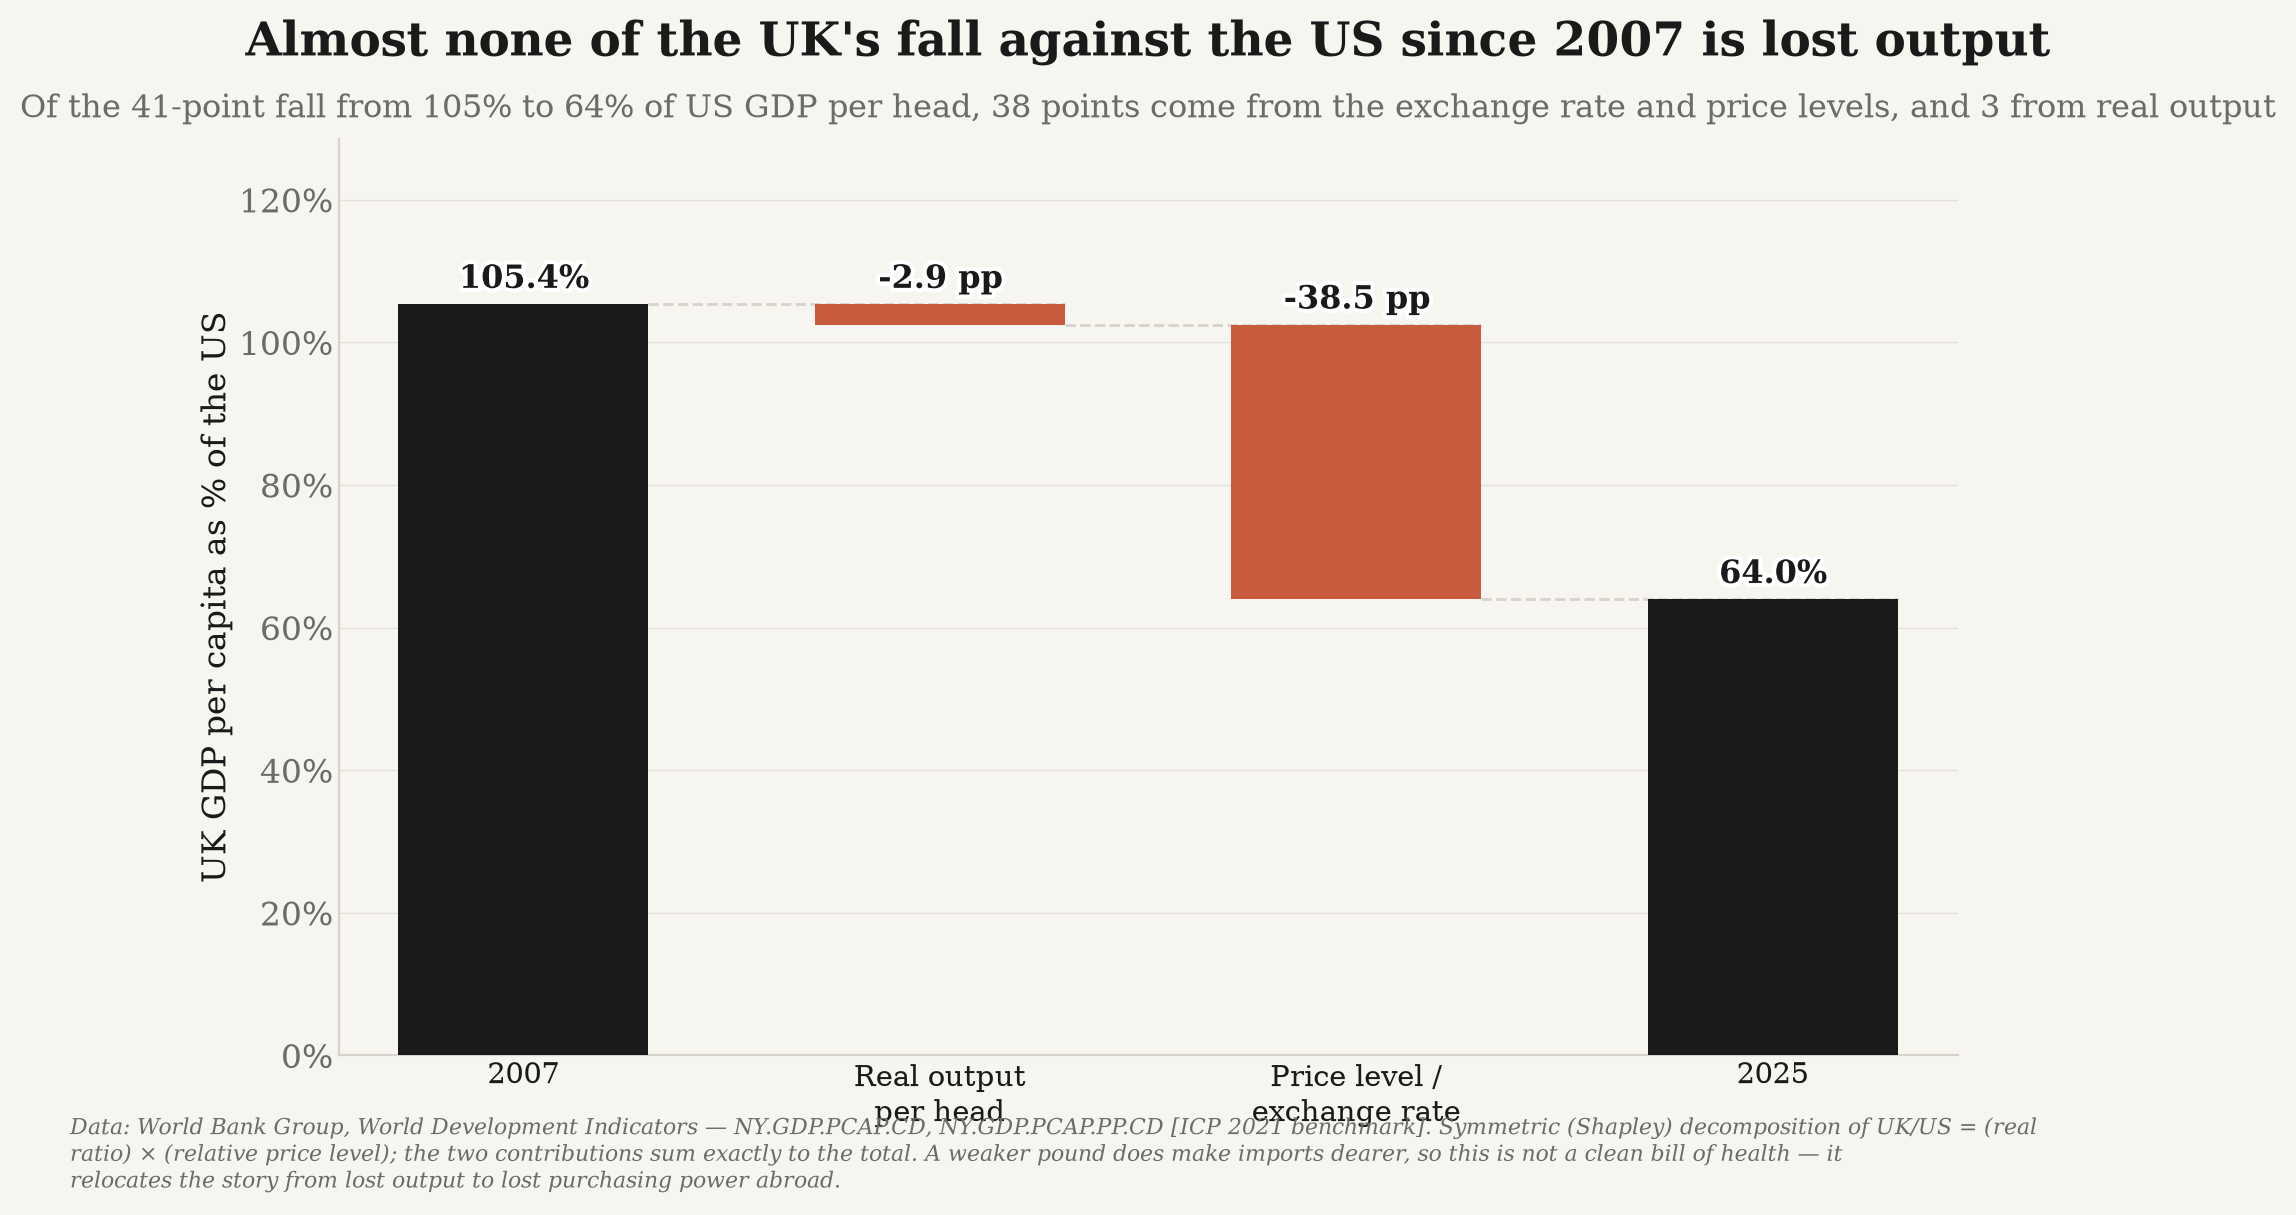
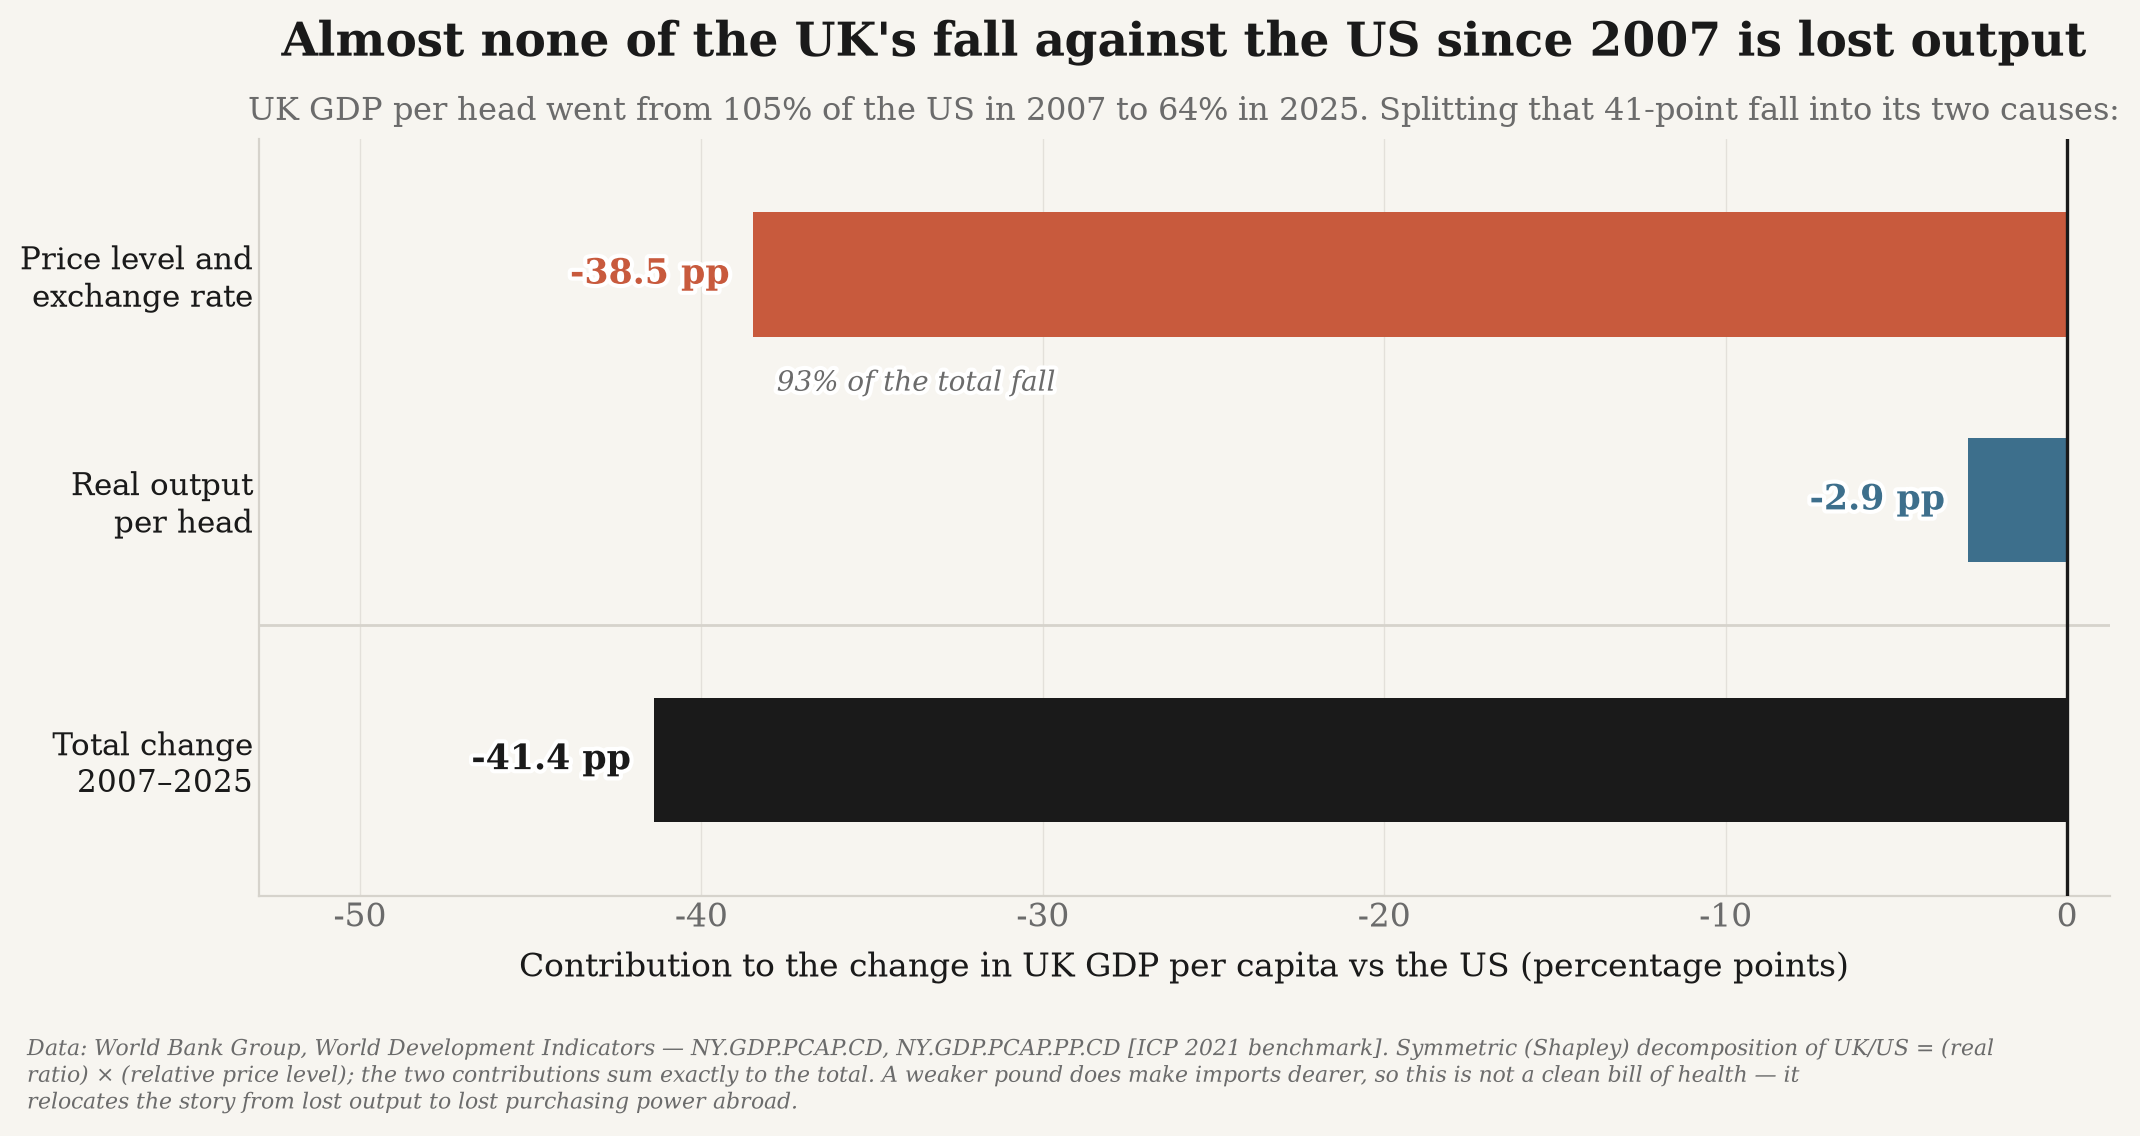
tuition ppp

diff --git a/ppp_data/charts.py b/ppp_data/charts.py
@@ -36,6 +36,10 @@ from .paths import CHART_DIR
 # the two bases are always compared over identical years.
 START_YEAR = 1990
 
+# The baseline year for the real-vs-currency decomposition: the UK's high-water mark against
+# the US, and the year the rest of the repository measures decline from.
+DECOMPOSITION_START_YEAR = 2007
+
 _WB = "Data: World Bank Group, World Development Indicators"
 _FRAMING = (
     "Market exchange rates measure what UK output buys on world markets; PPP measures what "
@@ -44,17 +48,21 @@ _FRAMING = (
 
 
 # ── 1. Levels at PPP ─────────────────────────────────────────────────────────
-def chart_gdp_per_capita(rows: list[dict], out_dir: Path) -> Path:
+def chart_gdp_per_capita(rows: list[dict], out_dir: Path) -> Path | None:
     """UK vs peers, real GDP per capita at PPP, constant 2021 international $."""
     metric = "gdp_per_capita_ppp_constant"
     meta = metrics.require_over_time(metric)
+    plotted = {p.iso3: series.xy(series.series(rows, metric, p.iso3), START_YEAR)
+               for p in peers.PEERS}
+    if not any(xs for xs, _ in plotted.values()):
+        return None  # a partial fetch: skip rather than publish an empty figure
     plt = _plt()
     fig, ax = plt.subplots(figsize=(11, 6))
 
     uk_latest = None
     spans: list[list[int]] = []
     for peer in peers.PEERS:
-        xs, ys = series.xy(series.series(rows, metric, peer.iso3), START_YEAR)
+        xs, ys = plotted[peer.iso3]
         if not xs:
             continue
         spans.append(xs)
@@ -83,10 +91,14 @@ def chart_gdp_per_capita(rows: list[dict], out_dir: Path) -> Path:
 
 
 # ── 2. Peers relative to the UK, at PPP ──────────────────────────────────────
-def chart_relative_to_peers(rows: list[dict], out_dir: Path) -> Path:
+def chart_relative_to_peers(rows: list[dict], out_dir: Path) -> Path | None:
     """Each peer's GDP per capita as a percentage of the UK's, at PPP (UK = 100)."""
     metric = "gdp_per_capita_ppp_current"
     meta = metrics.require_cross_section(metric)
+    plotted = {p.iso3: series.xy(series.ratio(rows, metric, p.iso3, peers.UK), START_YEAR)
+               for p in peers.RELATIVE_PEERS}
+    if not any(xs for xs, _ in plotted.values()):
+        return None  # no peer has a UK ratio: skip rather than publish an empty figure
     plt = _plt()
     fig, ax = plt.subplots(figsize=(11.5, 6.5))
 
@@ -95,8 +107,7 @@ def chart_relative_to_peers(rows: list[dict], out_dir: Path) -> Path:
     labels: list[tuple[float, str, str]] = []
     last_x = None
     for peer in peers.RELATIVE_PEERS:
-        ratios = series.ratio(rows, metric, peer.iso3, peers.UK)
-        xs, ys = series.xy(ratios, START_YEAR)
+        xs, ys = plotted[peer.iso3]
         if not xs:
             continue
         spans.append(xs)
@@ -134,19 +145,21 @@ def chart_relative_to_peers(rows: list[dict], out_dir: Path) -> Path:
 
 
 # ── 3. The two bases side by side ────────────────────────────────────────────
-def chart_ppp_vs_market_fx(rows: list[dict], out_dir: Path) -> Path:
+def chart_ppp_vs_market_fx(rows: list[dict], out_dir: Path) -> Path | None:
     """The UK as a share of the US, at market exchange rates and at PPP."""
     fx_metric, ppp_metric = "gdp_per_capita_nominal_usd", "gdp_per_capita_ppp_current"
     metrics.require_cross_section(fx_metric)
     metrics.require_cross_section(ppp_metric)
-    plt = _plt()
 
     fx = series.ratio(rows, fx_metric, peers.UK, peers.US)
     ppp = series.ratio(rows, ppp_metric, peers.UK, peers.US)
     years = [y for y in sorted(fx.keys() & ppp.keys()) if y >= START_YEAR]
+    if not years:
+        return None  # both bases are needed to draw the comparison at all
     fx_pct = [fx[y] * 100 for y in years]
     ppp_pct = [ppp[y] * 100 for y in years]
 
+    plt = _plt()
     fig, ax = plt.subplots(figsize=(11.5, 6.5))
     ax.fill_between(years, fx_pct, ppp_pct, color=MUTED, alpha=0.14, zorder=1)
     ax.plot(years, fx_pct, color=ACCENT, linewidth=2.8, zorder=4)
@@ -189,14 +202,17 @@ def chart_ppp_vs_market_fx(rows: list[dict], out_dir: Path) -> Path:
 
 
 # ── 4. The price level index ─────────────────────────────────────────────────
-def chart_price_level_index(rows: list[dict], out_dir: Path) -> Path:
+def chart_price_level_index(rows: list[dict], out_dir: Path) -> Path | None:
     """Each country's price level relative to the United States (US = 1.00)."""
     metric = "price_level_index"
     meta = metrics.require_over_time(metric)
+    uk = series.series(rows, metric, peers.UK)
+    uk_years = series.years_between(uk, START_YEAR)
+    if not uk_years:
+        return None  # the UK is the subject of this figure; without it there is nothing to say
     plt = _plt()
     fig, ax = plt.subplots(figsize=(11.5, 6.5))
 
-    uk = series.series(rows, metric, peers.UK)
     labels: list[tuple[float, str, str]] = []
     last_x = None
     for peer in peers.PRICE_LEVEL_PEERS:
@@ -215,7 +231,6 @@ def chart_price_level_index(rows: list[dict], out_dir: Path) -> Path:
     ax.text(ax.get_xlim()[0], 1.012, "United States = 1.00", fontsize=9.5, color=TEXT,
             style="italic", va="bottom", path_effects=white_stroke())
 
-    uk_years = series.years_between(uk, START_YEAR)
     peak_year = max(uk_years, key=lambda y: uk[y])
     ax.plot([peak_year], [uk[peak_year]], "o", color=ACCENT, markersize=7,
             markeredgecolor="white", markeredgewidth=1.4, zorder=6)
@@ -261,50 +276,69 @@ def uk_us_decomposition(rows: list[dict], start_year: int,
 
 
 def chart_decomposition(rows: list[dict], out_dir: Path,
-                        start_year: int = 2007) -> Path:
-    """A waterfall splitting the UK's fall against the US into real and currency parts."""
-    d = uk_us_decomposition(rows, start_year)
+                        start_year: int = DECOMPOSITION_START_YEAR) -> Path | None:
+    """Why the UK fell against the US: the two contributions, in percentage points.
+
+    Deliberately **not** a waterfall. A waterfall would put the endpoint levels (105% and
+    64% of the US) and the two changes (-2.9 and -38.5 points) on one axis, so bars drawn
+    from zero and bars floating in mid-air would look like the same kind of quantity when
+    they are not. This chart plots one quantity only — the contribution to the change, in
+    percentage points — and leaves the levels to the subtitle and the endpoint annotation.
+
+    ``start_year`` defaults to 2007, the UK's high-water mark and the baseline the rest of
+    the repository measures from. If the fetched range does not reach that far back — the
+    ``--start`` flag can move it — the figure is skipped rather than aborting a run whose
+    CSVs and manifest have already been written.
+    """
+    try:
+        d = uk_us_decomposition(rows, start_year)
+    except ValueError:
+        return None
     plt = _plt()
-    fig, ax = plt.subplots(figsize=(11, 6))
+    fig, ax = plt.subplots(figsize=(11, 5.6))
 
-    def colour(value: float) -> str:
-        return ACCENT if value < 0 else BLUE
+    # Top to bottom: the big driver, the small one, then the total they sum to.
+    bars = [
+        ("Price level and\nexchange rate", d.price_effect, ACCENT),
+        ("Real output\nper head", d.real_effect, BLUE),
+        (f"Total change\n{d.start_year}\u2013{d.end_year}", d.total_change, TEXT),
+    ]
+    ys = [2.0, 1.0, -0.15]  # the total is set slightly apart, below a divider
 
-    labels = [f"{d.start_year}", "Real output\nper head", "Price level /\nexchange rate",
-              f"{d.end_year}"]
-    # Endpoint bars sit on the axis; the two effect bars float between them, each starting
-    # where the previous step left off.
-    steps = [d.start_ratio, d.start_ratio + d.real_effect, d.end_ratio]
-    bars = [(0.0, d.start_ratio, TEXT)]
-    for effect, level in zip((d.real_effect, d.price_effect), steps):
-        bars.append((level + min(effect, 0.0), abs(effect), colour(effect)))
-    bars.append((0.0, d.end_ratio, TEXT))
+    for y, (_, value, colour) in zip(ys, bars):
+        ax.barh(y, value, height=0.55, color=colour, zorder=3)
+        ax.text(value - 0.7, y, f"{value:+.1f} pp", va="center", ha="right",
+                fontsize=12.5, fontweight="bold", color=colour,
+                path_effects=white_stroke())
 
-    for i, (bottom, height, col) in enumerate(bars):
-        ax.bar(i, height, bottom=bottom, color=col, width=0.6, zorder=3)
+    ax.axhline(0.45, color=GRID, linewidth=1.0, zorder=2)
+    ax.axvline(0, color=TEXT, linewidth=1.2, zorder=4)
 
-    for i, value in enumerate((d.start_ratio, d.real_effect, d.price_effect, d.end_ratio)):
-        bottom, height, _ = bars[i]
-        text = f"{value:+.1f} pp" if i in (1, 2) else f"{value:.1f}%"
-        ax.text(i, bottom + height + 1.2, text, ha="center", va="bottom",
-                fontsize=11.5, fontweight="bold", color=TEXT, path_effects=white_stroke())
+    share = abs(d.price_effect) / abs(d.total_change) * 100 if d.total_change else 0.0
+    ax.text(d.price_effect + 0.7, ys[0] - 0.42,
+            f"{share:.0f}% of the total fall", fontsize=10, color=MUTED, style="italic",
+            va="top", ha="left", path_effects=white_stroke())
 
-    # Dashed connectors carrying each step's closing level across to the next bar.
-    for i, level in enumerate(steps):
-        ax.plot([i + 0.3, i + 1.3], [level, level], color=GRID, linewidth=1.0,
-                linestyle="--", zorder=2)
+    ax.set_yticks(ys)
+    ax.set_yticklabels([label for label, _, _ in bars], fontsize=11, color=TEXT)
+    ax.set_ylim(-0.75, 2.6)
+    # Leave room to the left of the longest bar for its outside value label, which would
+    # otherwise run into the y tick labels.
+    widest = min(value for _, value, _ in bars)
+    ax.set_xlim(widest * 1.28, abs(widest) * 0.03)
 
-    ax.set_xticks(range(4))
-    ax.set_xticklabels(labels, fontsize=10.5, color=TEXT)
     ax.set_title(f"Almost none of the UK's fall against the US since {d.start_year} "
                  "is lost output", fontweight="bold", pad=30)
-    _subtitle(ax, f"Of the {abs(d.total_change):.0f}-point fall from {d.start_ratio:.0f}% to "
-                  f"{d.end_ratio:.0f}% of US GDP per head, {abs(d.price_effect):.0f} points "
-                  f"come from the exchange rate and price levels, and {abs(d.real_effect):.0f} "
-                  "from real output")
-    ax.yaxis.set_major_formatter(mtick.FuncFormatter(lambda v, _: f"{v:.0f}%"))
-    _tidy(ax, xlabel="", ylabel="UK GDP per capita as % of the US")
-    ax.set_ylim(0, max(d.start_ratio, d.end_ratio) * 1.22)
+    _subtitle(ax, f"UK GDP per head went from {d.start_ratio:.0f}% of the US in "
+                  f"{d.start_year} to {d.end_ratio:.0f}% in {d.end_year}. Splitting that "
+                  f"{abs(d.total_change):.0f}-point fall into its two causes:")
+    ax.xaxis.set_major_formatter(mtick.FuncFormatter(lambda v, _: f"{v:.0f}"))
+    ax.set_xlabel("Contribution to the change in UK GDP per capita vs the US "
+                  "(percentage points)", labelpad=6)
+    ax.grid(axis="x", linestyle="-", linewidth=0.5)
+    ax.set_axisbelow(True)
+    ax.tick_params(axis="both", pad=2)
+    ax.margins(y=0)
 
     source_note(fig, _note(
         f"{_WB} \u2014 NY.GDP.PCAP.CD, NY.GDP.PCAP.PP.CD [{metrics.ICP_VINTAGE} benchmark]. "
@@ -312,7 +346,7 @@ def chart_decomposition(rows: list[dict], out_dir: Path,
         "level); the two contributions sum exactly to the total.",
         "A weaker pound does make imports dearer, so this is not a clean bill of health "
         "\u2014 it relocates the story from lost output to lost purchasing power abroad."))
-    return save_fig(fig, out_dir / "ppp_gap_decomposition_uk_us.png")
+    return save_fig(fig, out_dir / "ppp_gap_decomposition_uk_us.png", bottom=0.20)
 
 
 # ── 6. The long run, on the Maddison benchmark ───────────────────────────────

diff --git a/ppp_data/worldbank.py b/ppp_data/worldbank.py
@@ -2,10 +2,16 @@
 
 Pulls the five World Bank series the PPP view needs — GDP per capita at PPP (constant and
 current international $), GDP per capita at market exchange rates (current US$), the PPP
-conversion factor, and the market exchange rate — and derives two more locally:
+conversion factor, and the market exchange rate — and derives three more locally:
 
-* ``price_level_index``    = PPP conversion factor / market exchange rate
-* ``gdp_per_capita_real_usd`` = current US$ GDP per capita deflated by US CPI
+* ``price_level_index``        = ``NY.GDP.PCAP.CD / NY.GDP.PCAP.PP.CD``. Algebraically this
+  is the PPP conversion factor over the market exchange rate, but computed this way the
+  country's local-currency GDP cancels, so it survives redenominations. See
+  :func:`derive_price_level_index`.
+* ``price_level_index_direct`` = ``PA.NUS.PPP / PA.NUS.FCRF``, the textbook formula, kept
+  **only** as a cross-check and never plotted — the two indicators do not share a currency
+  basis for euro-area countries before 1999.
+* ``gdp_per_capita_real_usd``  = current US$ GDP per capita deflated by US CPI.
 
 The deflation is delegated to :func:`europe_data.worldbank.deflate_to_real_usd`, the exact
 function behind the repository's headline chart, so the market-FX comparator plotted here
@@ -44,6 +50,10 @@ CONVERSION_INDICATORS: tuple[str, ...] = (
 # the Maddison Project Database, which sits on a different benchmark and gets its own chart.
 PPP_FIRST_YEAR = 1990
 
+# A hard ceiling on the paging loop. At 1,000 rows a page the real requests need one or two
+# pages; this only bounds a degenerate response that keeps advertising more.
+MAX_PAGES = 50
+
 SOURCE = "World Bank WDI"
 REAL_USD_SOURCE = "World Bank WDI (NY.GDP.PCAP.CD deflated by US CPI, FP.CPI.TOTL)"
 DERIVED_PLI_SOURCE = "Derived: World Bank WDI NY.GDP.PCAP.CD / NY.GDP.PCAP.PP.CD"
@@ -51,11 +61,16 @@ DERIVED_PLI_DIRECT_SOURCE = "Derived: World Bank WDI PA.NUS.PPP / PA.NUS.FCRF"
 
 
 def _fetch_indicator(indicator: str, iso3s: list[str], start: int, end: int) -> Iterator[dict]:
-    """Yield tidy rows for one indicator, following the API's paging."""
+    """Yield tidy rows for one indicator, following the API's paging.
+
+    The page count comes from the remote payload, so it is treated as untrusted: the loop
+    stops on a malformed header, on a page that yields no rows, and at a hard ceiling, so a
+    degenerate upstream response cannot drive unbounded requests.
+    """
     metric_id = metrics.BY_INDICATOR[indicator]
     codes = ";".join(iso3s)
     page = 1
-    while True:
+    while page <= MAX_PAGES:
         payload = get_json(
             f"{BASE}/country/{codes}/indicator/{indicator}",
             params={"format": "json", "per_page": 1000,
@@ -64,6 +79,8 @@ def _fetch_indicator(indicator: str, iso3s: list[str], start: int, end: int) -> 
         if not isinstance(payload, list) or len(payload) < 2 or payload[1] is None:
             return
         meta, rows = payload[0], payload[1]
+        if not rows:
+            return
         for row in rows:
             value = row.get("value")
             iso3 = row.get("countryiso3code") or ""
@@ -72,7 +89,11 @@ def _fetch_indicator(indicator: str, iso3s: list[str], start: int, end: int) -> 
             yield metrics.make_row(
                 iso3, peers.name_for(iso3), int(row["date"]), metric_id, float(value)
             )
-        if page >= int(meta.get("pages", 1)):
+        try:
+            pages = int(meta.get("pages", 1)) if isinstance(meta, dict) else 1
+        except (TypeError, ValueError):
+            return  # a malformed page count: stop rather than loop on a bad response
+        if page >= pages:
             return
         page += 1
 

diff --git a/ppp_data/tuition_ppp.py b/ppp_data/tuition_ppp.py
@@ -36,8 +36,8 @@ from tuition import config as tuition_config
 from vizstyle import ACCENT, BLUE, GOLD, MUTED, save_fig, source_note, white_stroke
 
 from . import series
-from .metrics import ICP_VINTAGE
 from .figure import labelled_ends, note, subtitle, themed_plt, tidy
+from .metrics import ICP_VINTAGE
 from .paths import CHART_DIR, TUITION_HISTORY_CSV
 
 # The base year the tuition package deflates to, and the name of the column it publishes in
@@ -236,9 +236,9 @@ def chart_tuition_ppp(points: list[TuitionPoint], out_dir: Path) -> Path | None:
     source_note(fig, note(
         "Sources: UK \u2014 England statutory fee caps (legislation.gov.uk / GOV.UK); US "
         "\u2014 NCES Digest 2023 Table 330.10. Converted at the World Bank PPP conversion "
-        f"factor (PA.NUS.PPP) for the fee year, then deflated by US CPI to constant "
-        f"{BASE_YEAR} international dollars. PPP factors start in 1990, so earlier fee "
-        "years are omitted rather than extrapolated."))
+        f"factor (PA.NUS.PPP, {ICP_VINTAGE} benchmark) for the fee year, then deflated by "
+        f"US CPI to constant {BASE_YEAR} international dollars. PPP factors start in 1990, "
+        "so earlier fee years are omitted rather than extrapolated."))
     return save_fig(fig, out_dir / "ppp_tuition_history.png", bottom=0.18)
 
 
